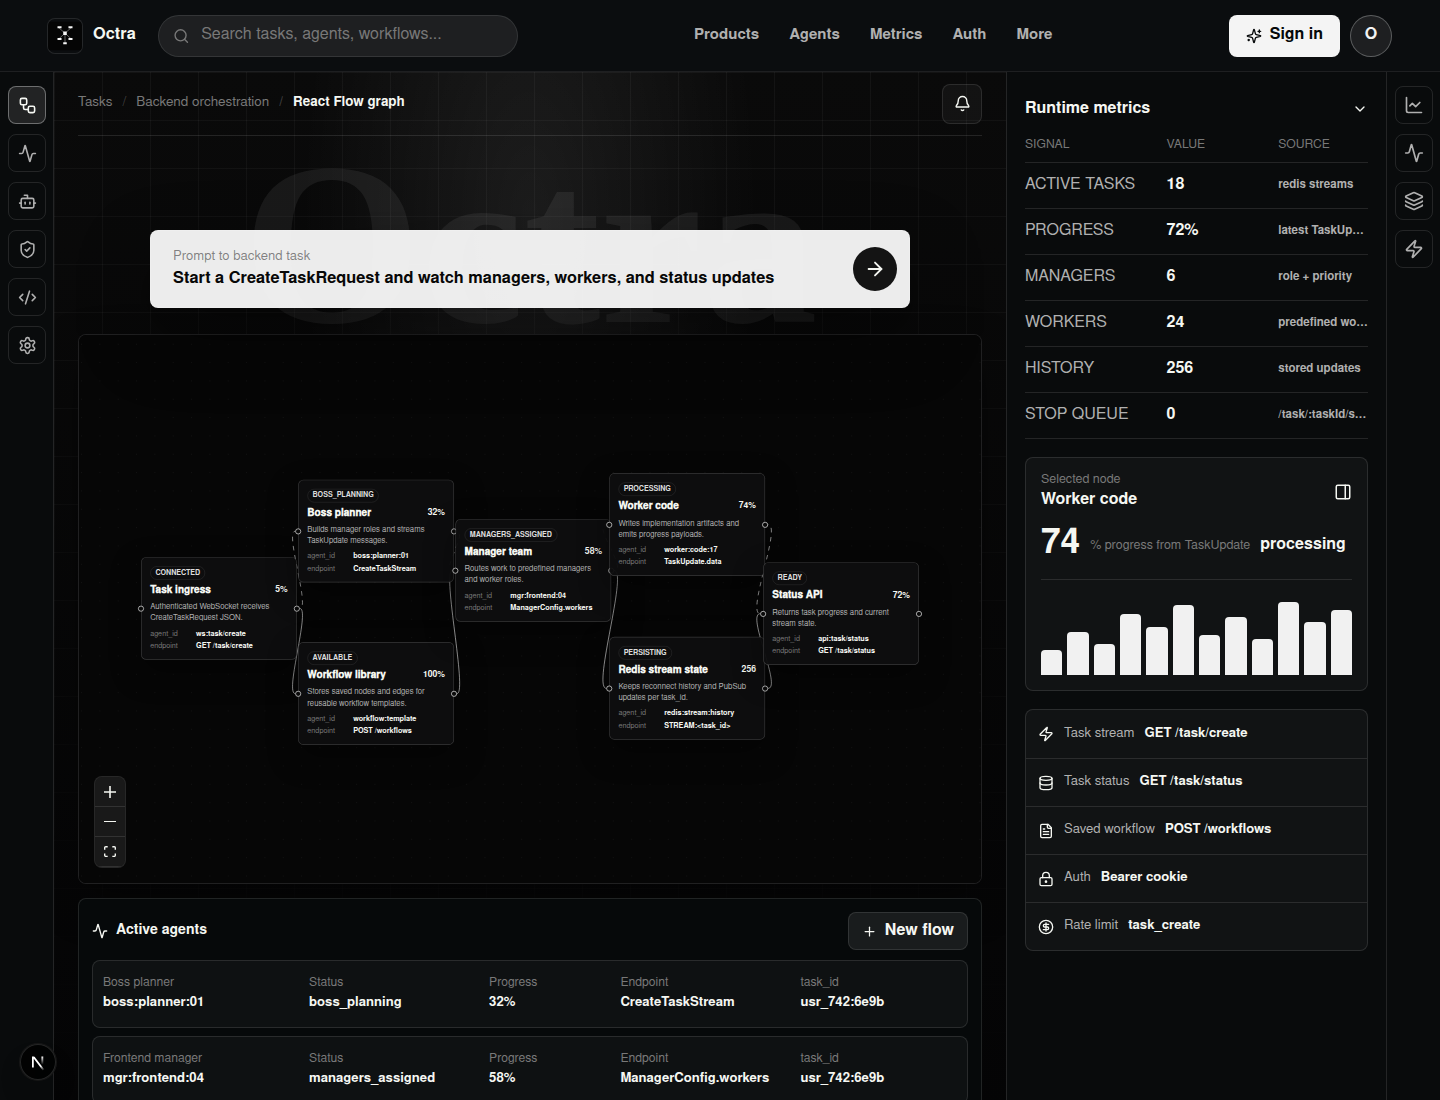
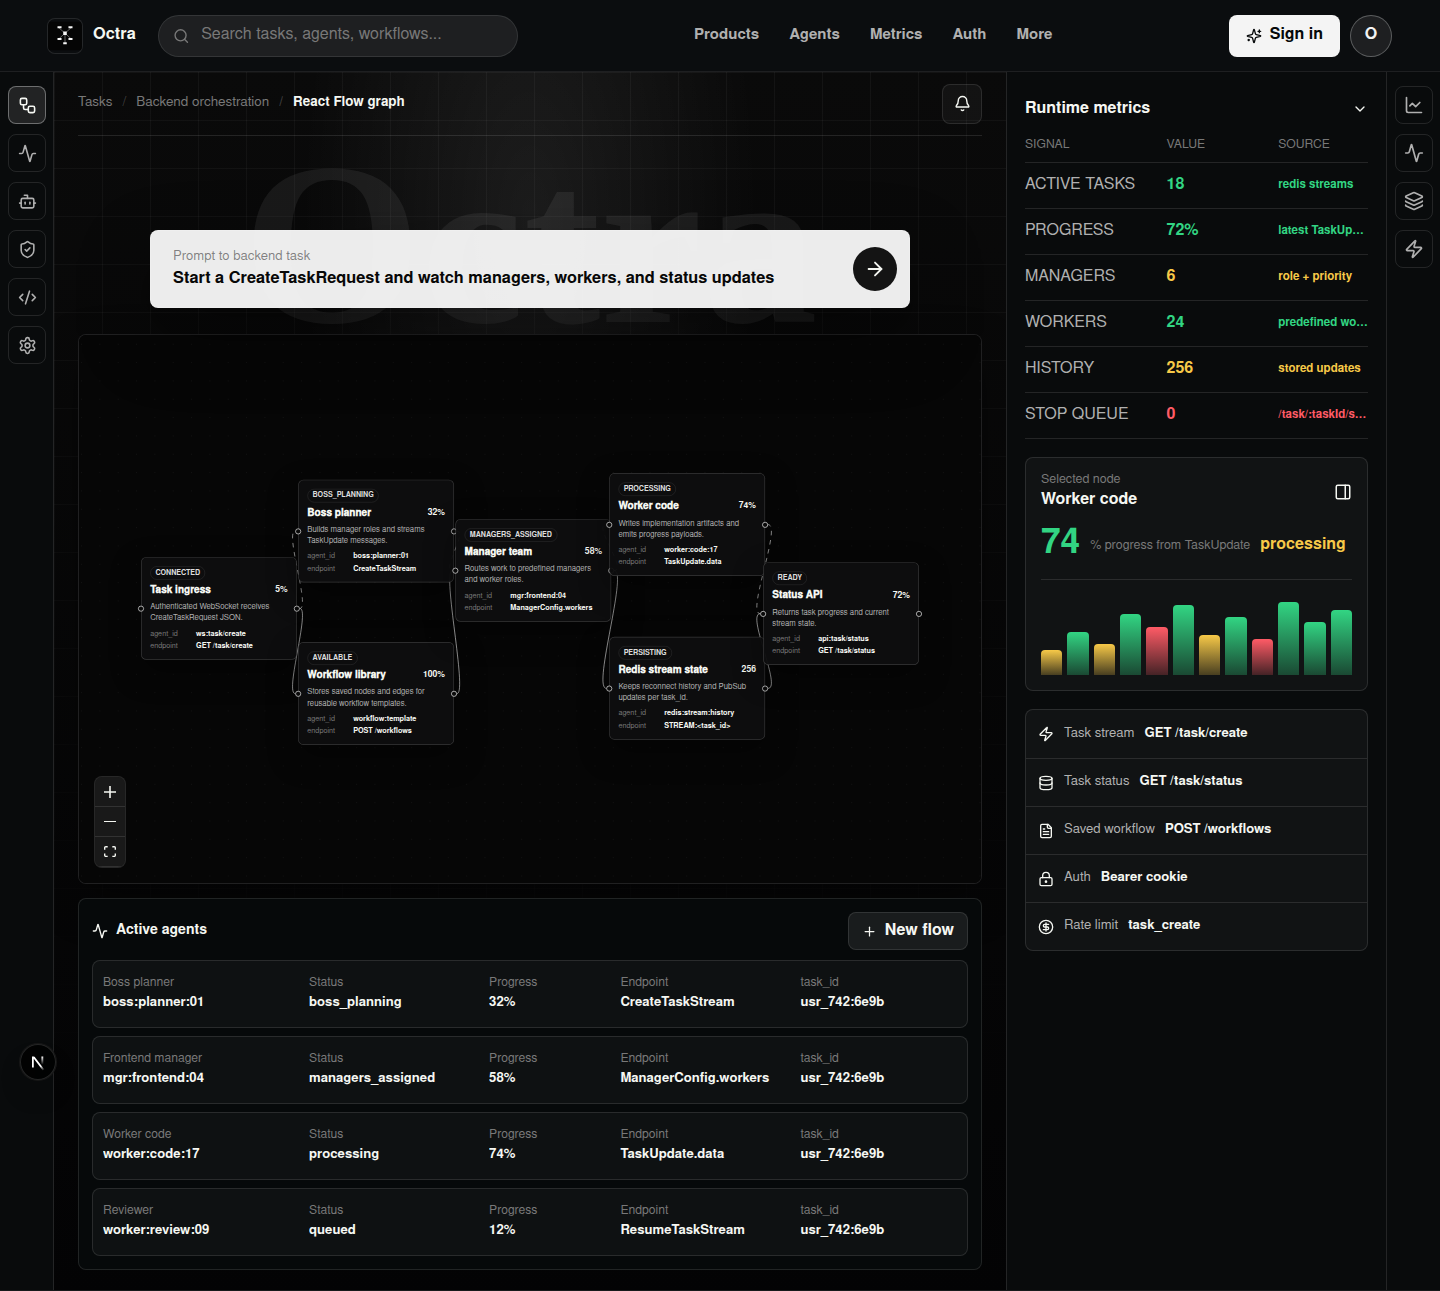
Add colored runtime metrics

diff --git a/frontend/web/app/globals.css b/frontend/web/app/globals.css
@@ -17,6 +17,9 @@
   --danger: #ececec;
   --notice: #c8c8c8;
   --bar-light: #e0e0e0;
+  --metric-success: #32d583;
+  --metric-warning: #f7c948;
+  --metric-danger: #ff5b66;
   --shadow: 0 24px 80px rgba(0, 0, 0, 0.48);
 }
 
@@ -1925,6 +1928,21 @@ button {
   white-space: nowrap;
 }
 
+.metric-tone-success strong,
+.metric-tone-success em {
+  color: var(--metric-success);
+}
+
+.metric-tone-warning strong,
+.metric-tone-warning em {
+  color: var(--metric-warning);
+}
+
+.metric-tone-danger strong,
+.metric-tone-danger em {
+  color: var(--metric-danger);
+}
+
 .selected-node,
 .guard-stack {
   margin-top: 18px;
@@ -1963,8 +1981,13 @@ button {
 }
 
 .price-line strong {
+  color: var(--metric-success);
   font-size: 2.2rem;
   line-height: 1;
+}
+
+.price-line em {
+  color: var(--metric-warning);
 }
 
 .market-bars {
@@ -1982,11 +2005,12 @@ button {
   display: block;
   min-width: 0;
   border-radius: 4px 4px 0 0;
-  background: var(--accent);
+  background: linear-gradient(180deg, var(--metric-success), rgba(50, 213, 131, 0.28));
 }
 
 .market-bars i:nth-child(1) {
   height: 30%;
+  background: linear-gradient(180deg, var(--metric-warning), rgba(247, 201, 72, 0.24));
 }
 
 .market-bars i:nth-child(2) {
@@ -1995,6 +2019,7 @@ button {
 
 .market-bars i:nth-child(3) {
   height: 38%;
+  background: linear-gradient(180deg, var(--metric-warning), rgba(247, 201, 72, 0.24));
 }
 
 .market-bars i:nth-child(4) {
@@ -2003,6 +2028,7 @@ button {
 
 .market-bars i:nth-child(5) {
   height: 58%;
+  background: linear-gradient(180deg, var(--metric-danger), rgba(255, 91, 102, 0.22));
 }
 
 .market-bars i:nth-child(6) {
@@ -2011,6 +2037,7 @@ button {
 
 .market-bars i:nth-child(7) {
   height: 48%;
+  background: linear-gradient(180deg, var(--metric-warning), rgba(247, 201, 72, 0.24));
 }
 
 .market-bars i:nth-child(8) {
@@ -2019,6 +2046,7 @@ button {
 
 .market-bars i:nth-child(9) {
   height: 44%;
+  background: linear-gradient(180deg, var(--metric-danger), rgba(255, 91, 102, 0.22));
 }
 
 .market-bars i:nth-child(10) {

diff --git a/frontend/web/app/page.tsx b/frontend/web/app/page.tsx
@@ -29,12 +29,12 @@ const backendEndpoints = [
 ];
 
 const backendMetrics = [
-  { label: 'ACTIVE TASKS', value: '18', detail: 'redis streams' },
-  { label: 'PROGRESS', value: '72%', detail: 'latest TaskUpdate' },
-  { label: 'MANAGERS', value: '6', detail: 'role + priority' },
-  { label: 'WORKERS', value: '24', detail: 'predefined workers' },
-  { label: 'HISTORY', value: '256', detail: 'stored updates' },
-  { label: 'STOP QUEUE', value: '0', detail: '/task/:taskId/stop' },
+  { label: 'ACTIVE TASKS', value: '18', detail: 'redis streams', tone: 'success' },
+  { label: 'PROGRESS', value: '72%', detail: 'latest TaskUpdate', tone: 'success' },
+  { label: 'MANAGERS', value: '6', detail: 'role + priority', tone: 'warning' },
+  { label: 'WORKERS', value: '24', detail: 'predefined workers', tone: 'success' },
+  { label: 'HISTORY', value: '256', detail: 'stored updates', tone: 'warning' },
+  { label: 'STOP QUEUE', value: '0', detail: '/task/:taskId/stop', tone: 'danger' },
 ];
 
 const activeAgents = [
@@ -209,7 +209,7 @@ export default function HomePage() {
           </div>
           <div className="quote-stack">
             {backendMetrics.map((metric) => (
-              <div className="market-row" key={metric.label}>
+              <div className={`market-row metric-tone-${metric.tone}`} key={metric.label}>
                 <span>{metric.label}</span>
                 <strong>{metric.value}</strong>
                 <em>{metric.detail}</em>
